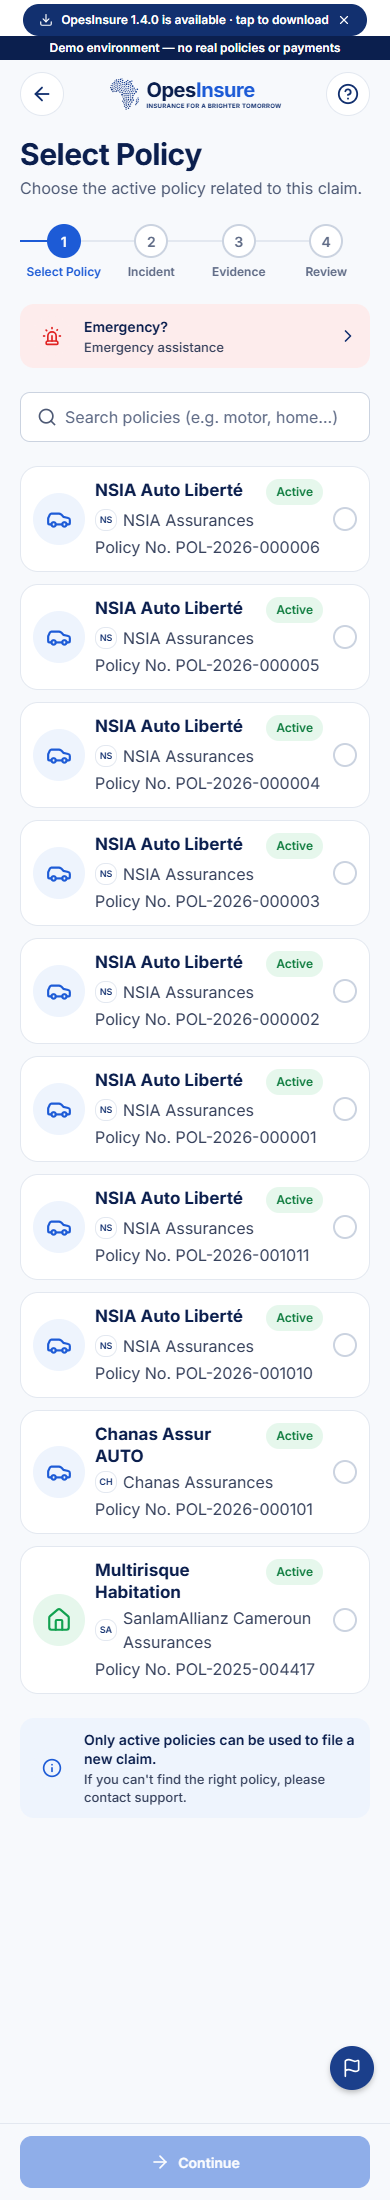
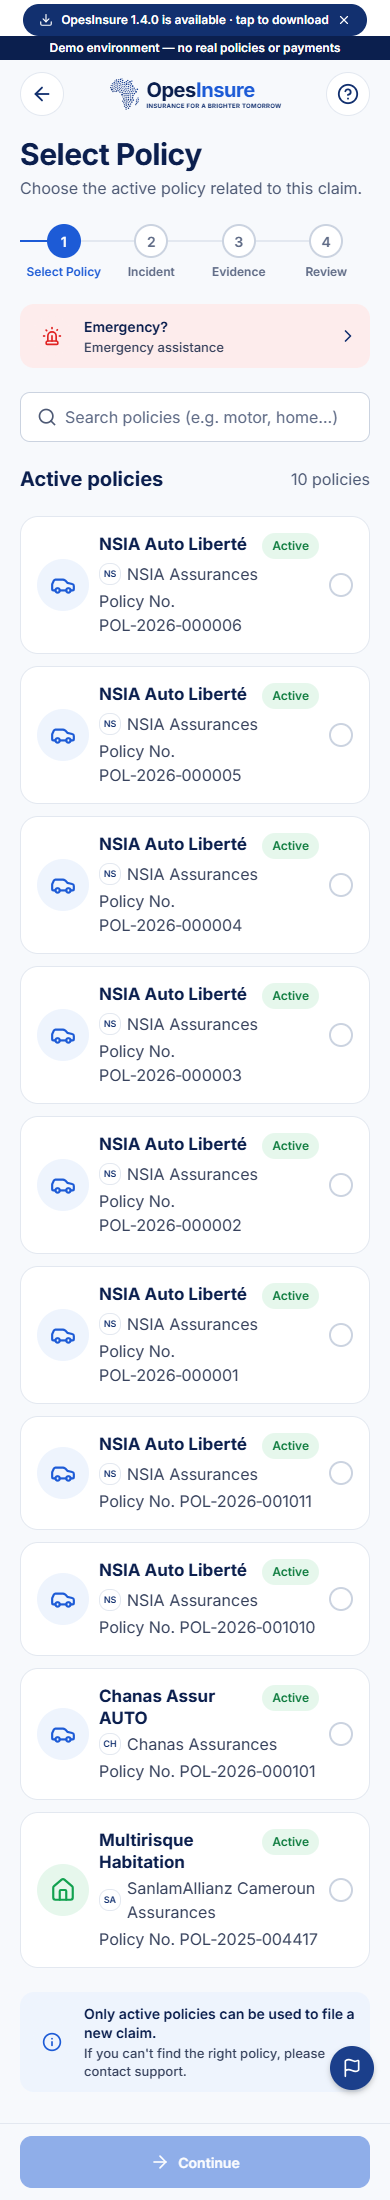
Forms: shared select sheet, option rows, 52dp fields/buttons, vehicle step lists; compare offers rebuilt, checkout/confirmation fixes; explore/search/onboarding polish; control radius 12

diff --git a/app/claim/new.tsx b/app/claim/new.tsx
@@ -3,12 +3,21 @@ import { StyleSheet, Text, View } from "react-native";
 import { router, useLocalSearchParams } from "expo-router";
 import { ArrowRight, Info, Siren } from "lucide-react-native";
 import { Button, Screen } from "@/components/ui";
-import { Banner, BrandHeader, CtaBar } from "@/components/design";
+import {
+  Banner,
+  BrandHeader,
+  CtaBar,
+  SectionHeading,
+} from "@/components/design";
 import { SearchBar } from "@/components/SearchBar";
 import { EmptyState, ErrorState, LoadingState } from "@/components/StatePanel";
 import { ClaimWizardSteps } from "@/components/claims/ClaimWizardSteps";
 import { PolicyChoiceCard } from "@/components/claims/PolicyChoiceCard";
-import { insuredLabel, policyTitle, providerName } from "@/components/claims/claimProduct";
+import {
+  insuredLabel,
+  policyTitle,
+  providerName,
+} from "@/components/claims/claimProduct";
 import { usePolicies } from "@/hooks/usePolicies";
 import { useInsurerLogo } from "@/components/claims/insurerLogo";
 import { useTranslation } from "@/i18n";
@@ -26,10 +35,24 @@ export default function NewClaim() {
   const { policies, loading, error, reload } = usePolicies();
   const logoFor = useInsurerLogo();
   const [query, setQuery] = useState("");
-  const [selected, setSelected] = useState<string | null>(typeof policyId === "string" && policyId ? policyId : null);
+  const [selected, setSelected] = useState<string | null>(
+    typeof policyId === "string" && policyId ? policyId : null,
+  );
 
-  const active = useMemo(() => policies.filter((p) => !p.status || p.status.toUpperCase() === "ACTIVE"), [policies]);
-  const shown = active.filter((p) => matchesQuery(query, policyTitle(p, ""), p.policy_number, providerName(p), insuredLabel(p)));
+  const active = useMemo(
+    () =>
+      policies.filter((p) => !p.status || p.status.toUpperCase() === "ACTIVE"),
+    [policies],
+  );
+  const shown = active.filter((p) =>
+    matchesQuery(
+      query,
+      policyTitle(p, ""),
+      p.policy_number,
+      providerName(p),
+      insuredLabel(p),
+    ),
+  );
   useEffect(() => {
     if (!selected && active.length === 1) setSelected(active[0]!.id);
   }, [active, selected]);
@@ -42,30 +65,77 @@ export default function NewClaim() {
             label={t("continue")}
             icon={ArrowRight}
             disabled={!selected || !active.some((p) => p.id === selected)}
-            onPress={() => router.push({ pathname: "/claim/new/incident" as never, params: { policyId: selected ?? "" } })}
+            onPress={() =>
+              router.push({
+                pathname: "/claim/new/incident" as never,
+                params: { policyId: selected ?? "" },
+              })
+            }
           />
         </CtaBar>
       }
     >
-      <BrandHeader title={t("claimSelectPolicyTitle")} subtitle={t("claimSelectPolicySubtitle")} right="help" />
+      <BrandHeader
+        title={t("claimSelectPolicyTitle")}
+        subtitle={t("claimSelectPolicySubtitle")}
+        right="help"
+      />
       <ClaimWizardSteps current={0} />
-      <Banner icon={Siren} tint="red" title={t("emergencyTitle")} body={t("emergencyAssistance")} onPress={() => router.push("/claim/emergency")} />
-      <SearchBar value={query} onChangeText={setQuery} placeholder={t("claimSearchPolicies")} label={t("claimPolicySearchLabel")} clearLabel={t("clearSearch")} />
+      <Banner
+        icon={Siren}
+        tint="red"
+        title={t("emergencyTitle")}
+        body={t("emergencyAssistance")}
+        onPress={() => router.push("/claim/emergency")}
+      />
+      <SearchBar
+        value={query}
+        onChangeText={setQuery}
+        placeholder={t("claimSearchPolicies")}
+        label={t("claimPolicySearchLabel")}
+        clearLabel={t("clearSearch")}
+      />
       {loading && !policies.length ? (
         <LoadingState label={t("claimLoadingPolicies")} />
       ) : error && !policies.length ? (
         <ErrorState error={error} onRetry={() => void reload()} />
       ) : !active.length ? (
-        <EmptyState title={t("claimNoActivePolicy")} message={t("claimNoActivePolicyBody")} />
+        <EmptyState
+          title={t("claimNoActivePolicy")}
+          message={t("claimNoActivePolicyBody")}
+        />
       ) : (
-        <View style={s.list} accessibilityRole="radiogroup">
-          {shown.map((p) => (
-            <PolicyChoiceCard key={p.id} policy={p} logoUrl={logoFor(p)} selected={selected === p.id} onPress={() => setSelected(p.id)} />
-          ))}
-          {!shown.length ? <Text style={s.note}>{t("claimNoPolicyMatch")}</Text> : null}
-        </View>
+        <>
+          <SectionHeading
+            title={t("homeActivePolicies")}
+            right={
+              <Text style={s.note}>
+                {t("claimPoliciesCount", { count: shown.length })}
+              </Text>
+            }
+          />
+          <View style={s.list} accessibilityRole="radiogroup">
+            {shown.map((p) => (
+              <PolicyChoiceCard
+                key={p.id}
+                policy={p}
+                logoUrl={logoFor(p)}
+                selected={selected === p.id}
+                onPress={() => setSelected(p.id)}
+              />
+            ))}
+            {!shown.length ? (
+              <Text style={s.note}>{t("claimNoPolicyMatch")}</Text>
+            ) : null}
+          </View>
+        </>
       )}
-      <Banner icon={Info} tint="blue" title={t("claimOnlyActiveTitle")} body={t("claimOnlyActiveBody")} />
+      <Banner
+        icon={Info}
+        tint="blue"
+        title={t("claimOnlyActiveTitle")}
+        body={t("claimOnlyActiveBody")}
+      />
     </Screen>
   );
 }

diff --git a/src/components/claims/PolicyChoiceCard.tsx b/src/components/claims/PolicyChoiceCard.tsx
@@ -32,7 +32,7 @@ export function PolicyChoiceCard({ policy, logoUrl, selected = false, onPress, p
   const status = (policy.status ?? "ACTIVE").toUpperCase();
   const body = (
     <View style={s.row}>
-      <TintedIcon icon={Icon} tint={tint} size={onPress ? 52 : 48} />
+      <TintedIcon icon={Icon} tint={tint} size={52} />
       <View style={s.flex}>
         <View style={s.titleRow}>
           <Text style={s.title}>{title}</Text>
@@ -44,7 +44,7 @@ export function PolicyChoiceCard({ policy, logoUrl, selected = false, onPress, p
             <Text style={s.body}>{provider}</Text>
           </View>
         ) : null}
-        {policy.policy_number ? <Text style={s.body}>{t("claimPolicyNo", { number: policy.policy_number })}</Text> : null}
+        {policy.policy_number ? <Text style={s.body}>{t("claimPolicyNo", { number: policy.policy_number.replace(/-/g, "‑") })}</Text> : null}
         {asset ? (
           <View style={s.line}>
             <Icon size={16} color={colors.navy800} />
@@ -73,12 +73,12 @@ export function PolicyChoiceCard({ policy, logoUrl, selected = false, onPress, p
 
 const s = StyleSheet.create({
   flex: { flex: 1, gap: 3 },
-  card: { backgroundColor: colors.white, borderWidth: 1.5, borderColor: colors.neutral200, borderRadius: radius.feature, padding: space.x3, overflow: "hidden" },
+  card: { backgroundColor: colors.white, borderWidth: 1.5, borderColor: colors.neutral200, borderRadius: radius.feature, padding: space.x4, overflow: "hidden" },
   cardOn: { borderColor: colors.blue600, backgroundColor: colors.blue50 },
   pressed: { opacity: 0.85 },
   row: { flexDirection: "row", alignItems: "center", gap: 10 },
   titleRow: { flexDirection: "row", flexWrap: "wrap", alignItems: "flex-start", columnGap: space.x2, rowGap: 4 },
-  title: { ...type.cardTitle, fontSize: 17, lineHeight: 22, color: colors.navy950, flexGrow: 1, flexShrink: 1, flexBasis: 120 },
+  title: { ...type.cardTitle, fontSize: 17, lineHeight: 22, color: colors.navy950, flexGrow: 1, flexShrink: 1, flexBasis: 150 },
   line: { flexDirection: "row", alignItems: "center", gap: 6 },
   body: { ...type.body, color: colors.neutral700, flexShrink: 1 },
   radio: { width: 24, height: 24, borderRadius: 12, borderWidth: 2, borderColor: colors.neutral300, alignItems: "center", justifyContent: "center", backgroundColor: colors.white },

diff --git a/app/support/[id].tsx b/app/support/[id].tsx
@@ -1,5 +1,5 @@
 import React, { useState } from "react";
-import { Pressable, StyleSheet, Text, TextInput, View } from "react-native";
+import { Platform, Pressable, StyleSheet, Text, TextInput, View } from "react-native";
 import { router, useLocalSearchParams } from "expo-router";
 import * as DocumentPicker from "expo-document-picker";
 import { ArrowUpCircle, CalendarDays, ChevronRight, Clock3, FileText, Flag, Headset, MessageSquare, MessagesSquare, Paperclip, Send, Tag, Ticket, User } from "lucide-react-native";
@@ -104,6 +104,7 @@ export default function SupportDetail() {
                 placeholder={t("supportReplyPlaceholder")}
                 placeholderTextColor={colors.neutral500}
                 multiline
+                numberOfLines={Platform.OS === "web" ? 1 : undefined}
                 style={styles.replyInput}
               />
               <View style={styles.sendWrap}>
@@ -327,8 +328,8 @@ const styles = StyleSheet.create({
   awaitingText: { ...type.caption, color: colors.gold600 },
   replyBar: { flexDirection: "row", alignItems: "flex-end", gap: space.x2 },
   attachBtn: { width: 50, height: 50, borderRadius: radius.control, borderWidth: 1, borderColor: colors.neutral300, backgroundColor: colors.white, alignItems: "center", justifyContent: "center", overflow: "hidden" },
-  replyInput: { ...type.body, flex: 1, minHeight: 50, maxHeight: 120, borderWidth: 1, borderColor: colors.neutral300, borderRadius: radius.control, backgroundColor: colors.white, paddingHorizontal: space.x3, paddingVertical: space.x3, color: colors.navy950 },
-  sendWrap: { minWidth: 130 },
+  replyInput: { ...type.body, fontSize: 15, flex: 1, minWidth: 0, minHeight: 50, maxHeight: 120, borderWidth: 1, borderColor: colors.neutral300, borderRadius: radius.control, backgroundColor: colors.white, paddingHorizontal: 10, paddingVertical: space.x3, color: colors.navy950 },
+  sendWrap: { flexShrink: 0 },
   error: { ...type.meta, color: colors.dangerText },
   notice: { ...type.meta, color: colors.successText },
 });

diff --git a/app/search.tsx b/app/search.tsx
@@ -203,7 +203,7 @@ export default function GlobalSearch() {
             style={({ pressed }) => [s.sortBtn, pressed && s.pressed]}
           >
             <ArrowUpDown size={16} color={colors.navy900} />
-            <Text style={s.sortText}>{t(sortBy === "name" ? "sortNameAZ" : "sortBestMatch")}</Text>
+            <Text style={s.sortText}>{`${t("ofSort")}: ${t(sortBy === "name" ? "sortNameAZ" : "sortBestMatch")}`}</Text>
           </Pressable>
         </View>
       ) : null}
@@ -277,7 +277,7 @@ export default function GlobalSearch() {
                     </View>
                     <View style={s.tagRow}>
                       {c ? <Text style={s.tag}>{t(c.label)}</Text> : null}
-                      {x.line_code ? <Text style={s.tag}>{x.line_code}</Text> : null}
+                      {x.line_code && (!c || x.line_code.toUpperCase() !== t(c.label).toUpperCase()) ? <Text style={s.tag}>{x.line_code}</Text> : null}
                     </View>
                   </View>
                 </View>
@@ -403,7 +403,7 @@ const s = StyleSheet.create({
   linkText: { ...type.label, color: colors.blue600 },
   primaryBtn: { flex: 1, minHeight: 46, borderRadius: radius.control, backgroundColor: colors.blue600, flexDirection: "row", alignItems: "center", justifyContent: "center", gap: space.x2, overflow: "hidden" },
   primaryText: { ...type.label, color: colors.white },
-  sortRow: { flexDirection: "row", alignItems: "center", justifyContent: "flex-end" },
+  sortRow: { flexDirection: "row", alignItems: "center", justifyContent: "flex-start" },
   sortBtn: { flexDirection: "row", alignItems: "center", gap: 6, minHeight: 44, paddingHorizontal: space.x3, borderRadius: radius.control, borderWidth: 1, borderColor: colors.neutral200, backgroundColor: colors.white, overflow: "hidden" },
   sortText: { ...type.label, color: colors.navy900, fontSize: 13 },
   offerTile: { width: 72, height: 72, borderRadius: radius.card, backgroundColor: colors.blue50, alignItems: "center", justifyContent: "center" },

diff --git a/src/components/policies/PolicyDetailView.tsx b/src/components/policies/PolicyDetailView.tsx
@@ -352,9 +352,9 @@ export function PolicyDetailView({ id }: { id: string }) {
 
         {p.certificate_number || p.issued_at || cover.excessMinor !== null || cover.coverages.some((c) => c.limitMinor !== null) || cover.exclusions.length ? (
           <Card style={st.infoCard}>
-            {p.certificate_number ? <InfoRow label={t("pdCertificate")} value={p.certificate_number} /> : null}
-            {p.issued_at ? <InfoRow label={t("pdIssued")} value={f.date(p.issued_at)} /> : null}
-            {cover.excessMinor !== null ? <InfoRow label={t("pdExcess")} value={f.xaf(cover.excessMinor)} /> : null}
+            {p.certificate_number ? <View style={st.limitRow}><Text style={st.limitLabel}>{t("pdCertificate")}</Text><Text style={st.limitValue}>{p.certificate_number}</Text></View> : null}
+            {p.issued_at ? <View style={st.limitRow}><Text style={st.limitLabel}>{t("pdIssued")}</Text><Text style={st.limitValue}>{f.date(p.issued_at)}</Text></View> : null}
+            {cover.excessMinor !== null ? <View style={st.limitRow}><Text style={st.limitLabel}>{t("pdExcess")}</Text><Text style={st.limitValue}>{f.xaf(cover.excessMinor)}</Text></View> : null}
             {cover.coverages.some((c) => c.limitMinor !== null) ? (
               <View style={st.limits}>
                 <Text style={st.limitsTitle}>{t("pdCoverLimits")}</Text>

diff --git a/app/policy/[id]/renewal-offers.tsx b/app/policy/[id]/renewal-offers.tsx
@@ -277,7 +277,7 @@ const st = StyleSheet.create({
   expiryValue: { ...type.label, color: colors.dangerText },
   headText: { flexBasis: 130, flexGrow: 1, flexShrink: 1, minWidth: 0 },
   segments: { flexDirection: "row", gap: space.x2 },
-  segment: { flexBasis: 0, flexGrow: 1, minHeight: 48, flexDirection: "row", alignItems: "center", justifyContent: "center", gap: 4, paddingHorizontal: 4, paddingVertical: 6, borderRadius: radius.control, borderWidth: 1.5, borderColor: colors.neutral200, backgroundColor: colors.white },
+  segment: { flexBasis: "auto", flexGrow: 1, flexShrink: 1, minHeight: 48, flexDirection: "row", alignItems: "center", justifyContent: "center", gap: 4, paddingHorizontal: 4, paddingVertical: 6, borderRadius: radius.control, borderWidth: 1.5, borderColor: colors.neutral200, backgroundColor: colors.white },
   segmentOn: { backgroundColor: colors.blue600, borderColor: colors.blue600 },
   segmentText: { ...type.label, fontSize: 12, lineHeight: 15, color: colors.navy950, textAlign: "center", flexShrink: 1 },
   segmentTextOn: { color: colors.white },

diff --git a/src/theme/tokens.ts b/src/theme/tokens.ts
@@ -37,7 +37,7 @@ export const heritage = {
 export const CONTENT_MAX_WIDTH = 720;
 
 export const space = { x1: 4, x2: 8, x3: 12, x4: 16, x5: 20, x6: 24, x8: 32, x10: 40, x12: 48, x16: 64 } as const;
-export const radius = { control: 10, card: 14, feature: 18, sheet: 20, pill: 999 } as const;
+export const radius = { control: 12, card: 14, feature: 18, sheet: 20, pill: 999 } as const;
 export const type = {
   display: { fontSize: 34, lineHeight: 40, fontFamily: 'Inter_700Bold', letterSpacing: -0.5 },
   pageTitle: { fontSize: 26, lineHeight: 32, fontFamily: 'Inter_700Bold', letterSpacing: -0.3 },

diff --git a/app/support/new.tsx b/app/support/new.tsx
@@ -125,7 +125,7 @@ export default function NewSupport() {
             // Long lists: a drop-down; the first row clears the link.
             <SelectField
               label={t("supportRelatedPolicy")}
-              value={policyId ?? ""}
+              value={policyId ?? undefined}
               onChange={(v) => setPolicyId(v || null)}
               options={[{ value: "", label: t("mdNotChosen") }, ...policies.data.map((p) => ({ value: p.id, label: p.policy_number, subtitle: p.product_name ?? undefined }))]}
             />

diff --git a/src/components/design/index.tsx b/src/components/design/index.tsx
@@ -215,7 +215,7 @@ export function HeroCard({
           {provider ? (
             <View style={s.providerRow}>
               <InstitutionMark logoUrl={providerLogo} initials={providerInitials ?? provider.slice(0, 2).toUpperCase()} size={22} />
-              <Text style={s.providerText} numberOfLines={1}>{provider}</Text>
+              <Text style={s.providerText} numberOfLines={2}>{provider}</Text>
             </View>
           ) : null}
           {lines.filter(Boolean).map((l, i) => (

diff --git a/src/i18n/fr.ts b/src/i18n/fr.ts
@@ -2900,4 +2900,5 @@ export const fr: Record<keyof typeof en, string> = {
   cmpPageSubtitle: "Choisissez la couverture adaptée à vos besoins.",
   coEncrypted: "Vos informations de paiement sont chiffrées et sécurisées.",
   appealNotEligible: "Pas encore éligible à un recours",
+  claimPoliciesCount: "{count} polices",
 };

diff --git a/src/i18n/en.ts b/src/i18n/en.ts
@@ -2911,4 +2911,5 @@ export const en = {
   cmpPageSubtitle: "Choose the cover that fits your needs.",
   coEncrypted: "Your payment information is encrypted and secure.",
   appealNotEligible: "Not eligible for appeal yet",
+  claimPoliciesCount: "{count} policies",
 };
